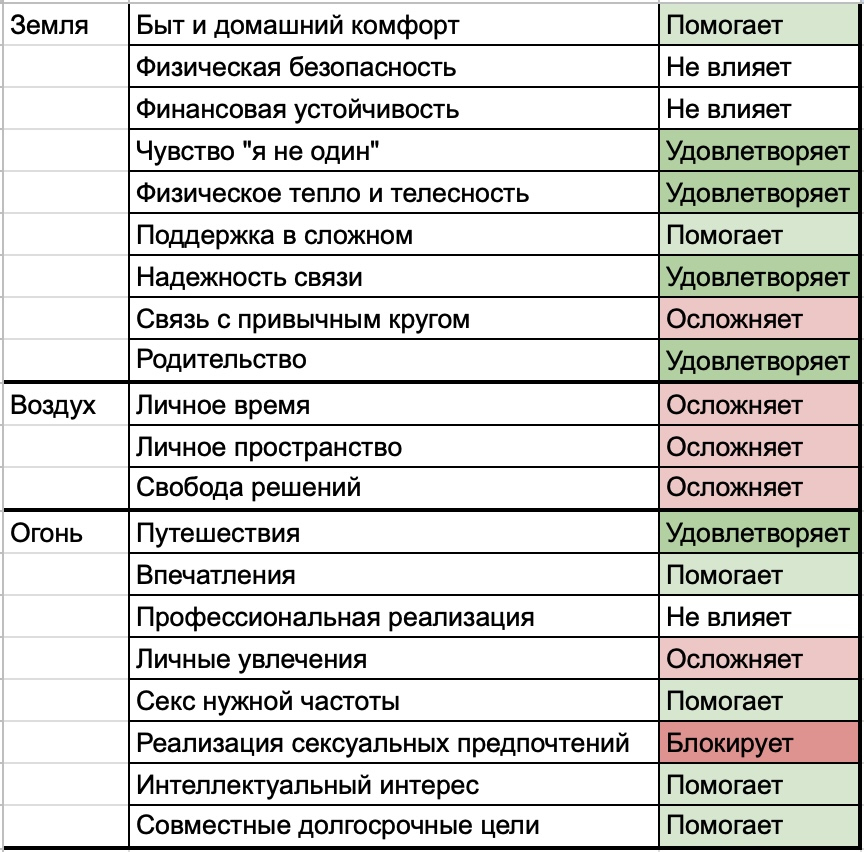
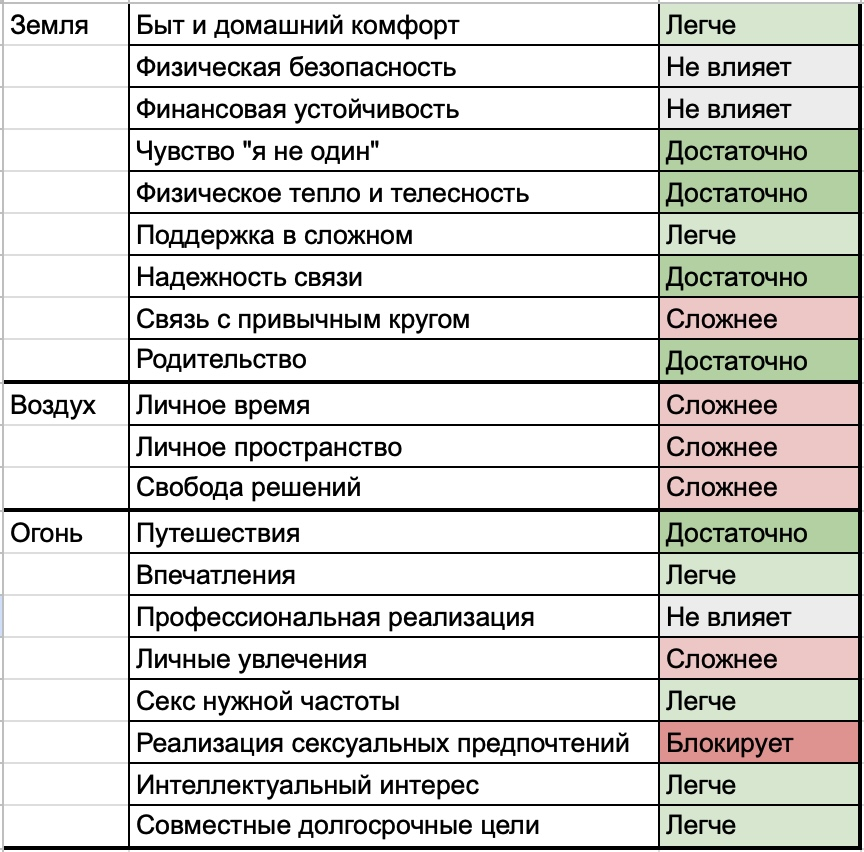
vault backup: 2026-10-05 12:05:55

diff --git a/articles/choice-economics/2026-10-03 Economics of choice.md b/articles/choice-economics/2026-10-03 Economics of choice.md
@@ -50,15 +50,13 @@
 
 Все эти источники образуют **экосистему** удовлетворения потребностей. Новый вариант, встраиваясь, изменяет ее: может дать новый источник, ничего не изменить или, наоборот, затруднить то, что раньше было доступно.
 
-Плюс — получать нужное становится проще.
+Плюс — получать нужное становится проще или потребность удовлетворяется в достаточной степени.
 Ноль — возможность остается примерно той же.
-Минус — получать нужное становится сложнее.
+Минус — получать нужное становится сложнее или невозможно.
 
 Например, появился человек, с которым есть регулярная телесная близость — плюс. Партнер не разделяет мое хобби, но у меня осталось сообщество и партнер никак не препятствует — ноль. Ревность партнера ограничила общение с друзьями — минус.
 
 В экономическом смысле минусы и есть издержки варианта — то, чем приходится платить за его плюсы.
-
-В таблице можно различать и крайние случаи: вариант может полностью удовлетворять потребность или, наоборот, блокировать ее.
 
 <img src="imgs/scale.jpg" width="550">
 
@@ -80,7 +78,7 @@
 
 Первое следствие формализации своих ощущений — мы получаем возможность для целенаправленных действий: поддерживать ставшие привычными плюсы и попробовать уменьшить или убрать конкретные минусы.
 
-В отношениях можно договориться о распределении быта, вернуть себе время на собственные занятия или попробовать изменить сексуальную жизнь. В случае с работой — обсудить зарплату, график, зону ответственности или формат присутствия в офисе. 
+В отношениях можно договориться о распределении быта, вернуть себе время на собственные занятия или попробовать изменить сексуальную жизнь. В случае с работой — обсудить зарплату, график, зону ответственности или формат присутствия в офисе.
 
 Часть потребностей можно вообще закрыть из других источников: вернуть хобби, друзей, собственные проекты. Тогда конкретный минус может стать менее значимым.
 
@@ -88,7 +86,7 @@
 
 Все варианты, которых у меня сейчас нет, существуют для меня только как прогноз. Выбирая между двумя оферами, я в обоих случаях представляю, как мне там будет. То же самое с переездом, новым проектом или началом отношений.
 
-Другой случай, когда один из вариантов уже стал моей жизнью. Тогда сравнение оказывается асимметричным: **один вариант я знаю из опыта, остальные приходится моделировать**.
+Другой случай, когда один из вариантов уже является моей жизнью. Тогда сравнение оказывается асимметричным: **один вариант я знаю из опыта, остальные приходится моделировать**.
 
 Вернемся к отношениям. Наш условный молодой человек знает, за счет чего ему в них хорошо и за счет чего плохо. А жизнь после расставания он может только прогнозировать. Возможно, у него станет больше автономии. Но какой будет сексуальная жизнь, что будет с чувством одиночества и устройством быта — пока неизвестно.
 
@@ -104,7 +102,7 @@
 
 Поэтому два человека с очень похожей таблицей отношений могут принимать разные решения, если у одного переход в другую жизнь — чемодан и новый Tinder, а у другого — дети, общая ипотека и двадцать лет совместной жизни.
 
-При этом важны не сами потраченные годы, деньги и силы, а то, **во что они успели превратиться**: дети, общий дом, привычный быт, репутация, экспертиза, социальные связи. Все это уже встроено в нынешнюю жизнь, и при переходе часть придется потерять или перестроить. В *Investment Model of Commitment* (Rusbult, 1980) именно такие вложения рассматриваются как один из факторов, удерживающих человека в отношениях.
+Потраченные годы, деньги и силы уже невозвратны ("sunk cost"). Для выбора имеет значение то, во что они успели превратиться: дети, общий дом, привычный быт, репутация, экспертиза, социальные связи. Все это уже встроено в нынешнюю жизнь, и при переходе часть придется потерять или перестроить. В *Investment Model of Commitment* (Rusbult, 1980) именно такие вложения рассматриваются как один из факторов, удерживающих человека в отношениях.
 
 В итоге человек может оставаться в текущем варианте потому, что такая экономика его устраивает. А может — потому что привлекательность альтернативы пока не покрывает цену перехода. Снаружи выглядит одинаково: **отношения устойчивы, но мотивы разные**.
 
@@ -112,7 +110,7 @@
 
 Большинство решений не требует сознательной декомпозиции. Более того, решение "я хочу" или "я не хочу" возникает еще до того, как мы успели его осознать. Проблема возникает, когда важные потребности тянут в разные стороны, последствия неопределенны, а цена ошибки высока.
 
-Формализация не означает автоматически выбора, ведь нельзя объективно вычислить, сколько автономии стоит надежная связь и сколько денег — удовольствие от работы. Формализация помогает точнее увидеть слагаемые вариантов. И тогда выбор снова может произойти привычным способом. Одно начнет сильнее притягивать или отталкивать, а вместо тревоги может появиться уверенность в решении.
+Формализация не означает автоматически выбора, ведь нельзя объективно вычислить, сколько автономии стоит надежная связь и сколько денег — удовольствие от работы. Формализация помогает точнее увидеть слагаемые вариантов. И тогда выбор снова может произойти привычным способом. Одно начнет сильнее притягивать или отталкивать, а вместо колебаний может появиться уверенность в решении.
 
 Иногда неоднозначность остается. И тогда это может означать, что варианты действительно близки по привлекательности, цену одного из них мне пока трудно принять или мне просто не хватает информации о том, что еще существует только в перспективе.
 
@@ -122,11 +120,11 @@
 
 2. Оценить знак и степень этого влияния. Если повторять такую оценку со временем, становится видно, как меняется удовлетворенность работой, отношениями или другой частью жизни.
 
-3. Понять, что можно изменить внутри текущего варианта и какие потребности можно удовлетворить из других источников.
+3. Если один из вариантов уже является моей жизнью, понять, что можно изменить внутри него и какие потребности можно удовлетворить из других источников.
 
-4. Если этого недостаточно, таким же образом оценить доступные альтернативы, не забывая, что часть их свойств пока только в виде ожиданий.
+4. Таким же образом оценить доступные альтернативы, не забывая, что часть их свойств пока только в виде ожиданий.
 
-5. Учесть цену перехода: что придется потерять, перестроить или заново создать при смене варианта.
+5. Если выбор предполагает выход из текущего варианта, учесть цену перехода: что придется потерять, перестроить или заново создать.
 
 6. А дальше с высокой долей вероятности решение обнаружится привычным образом.
 
